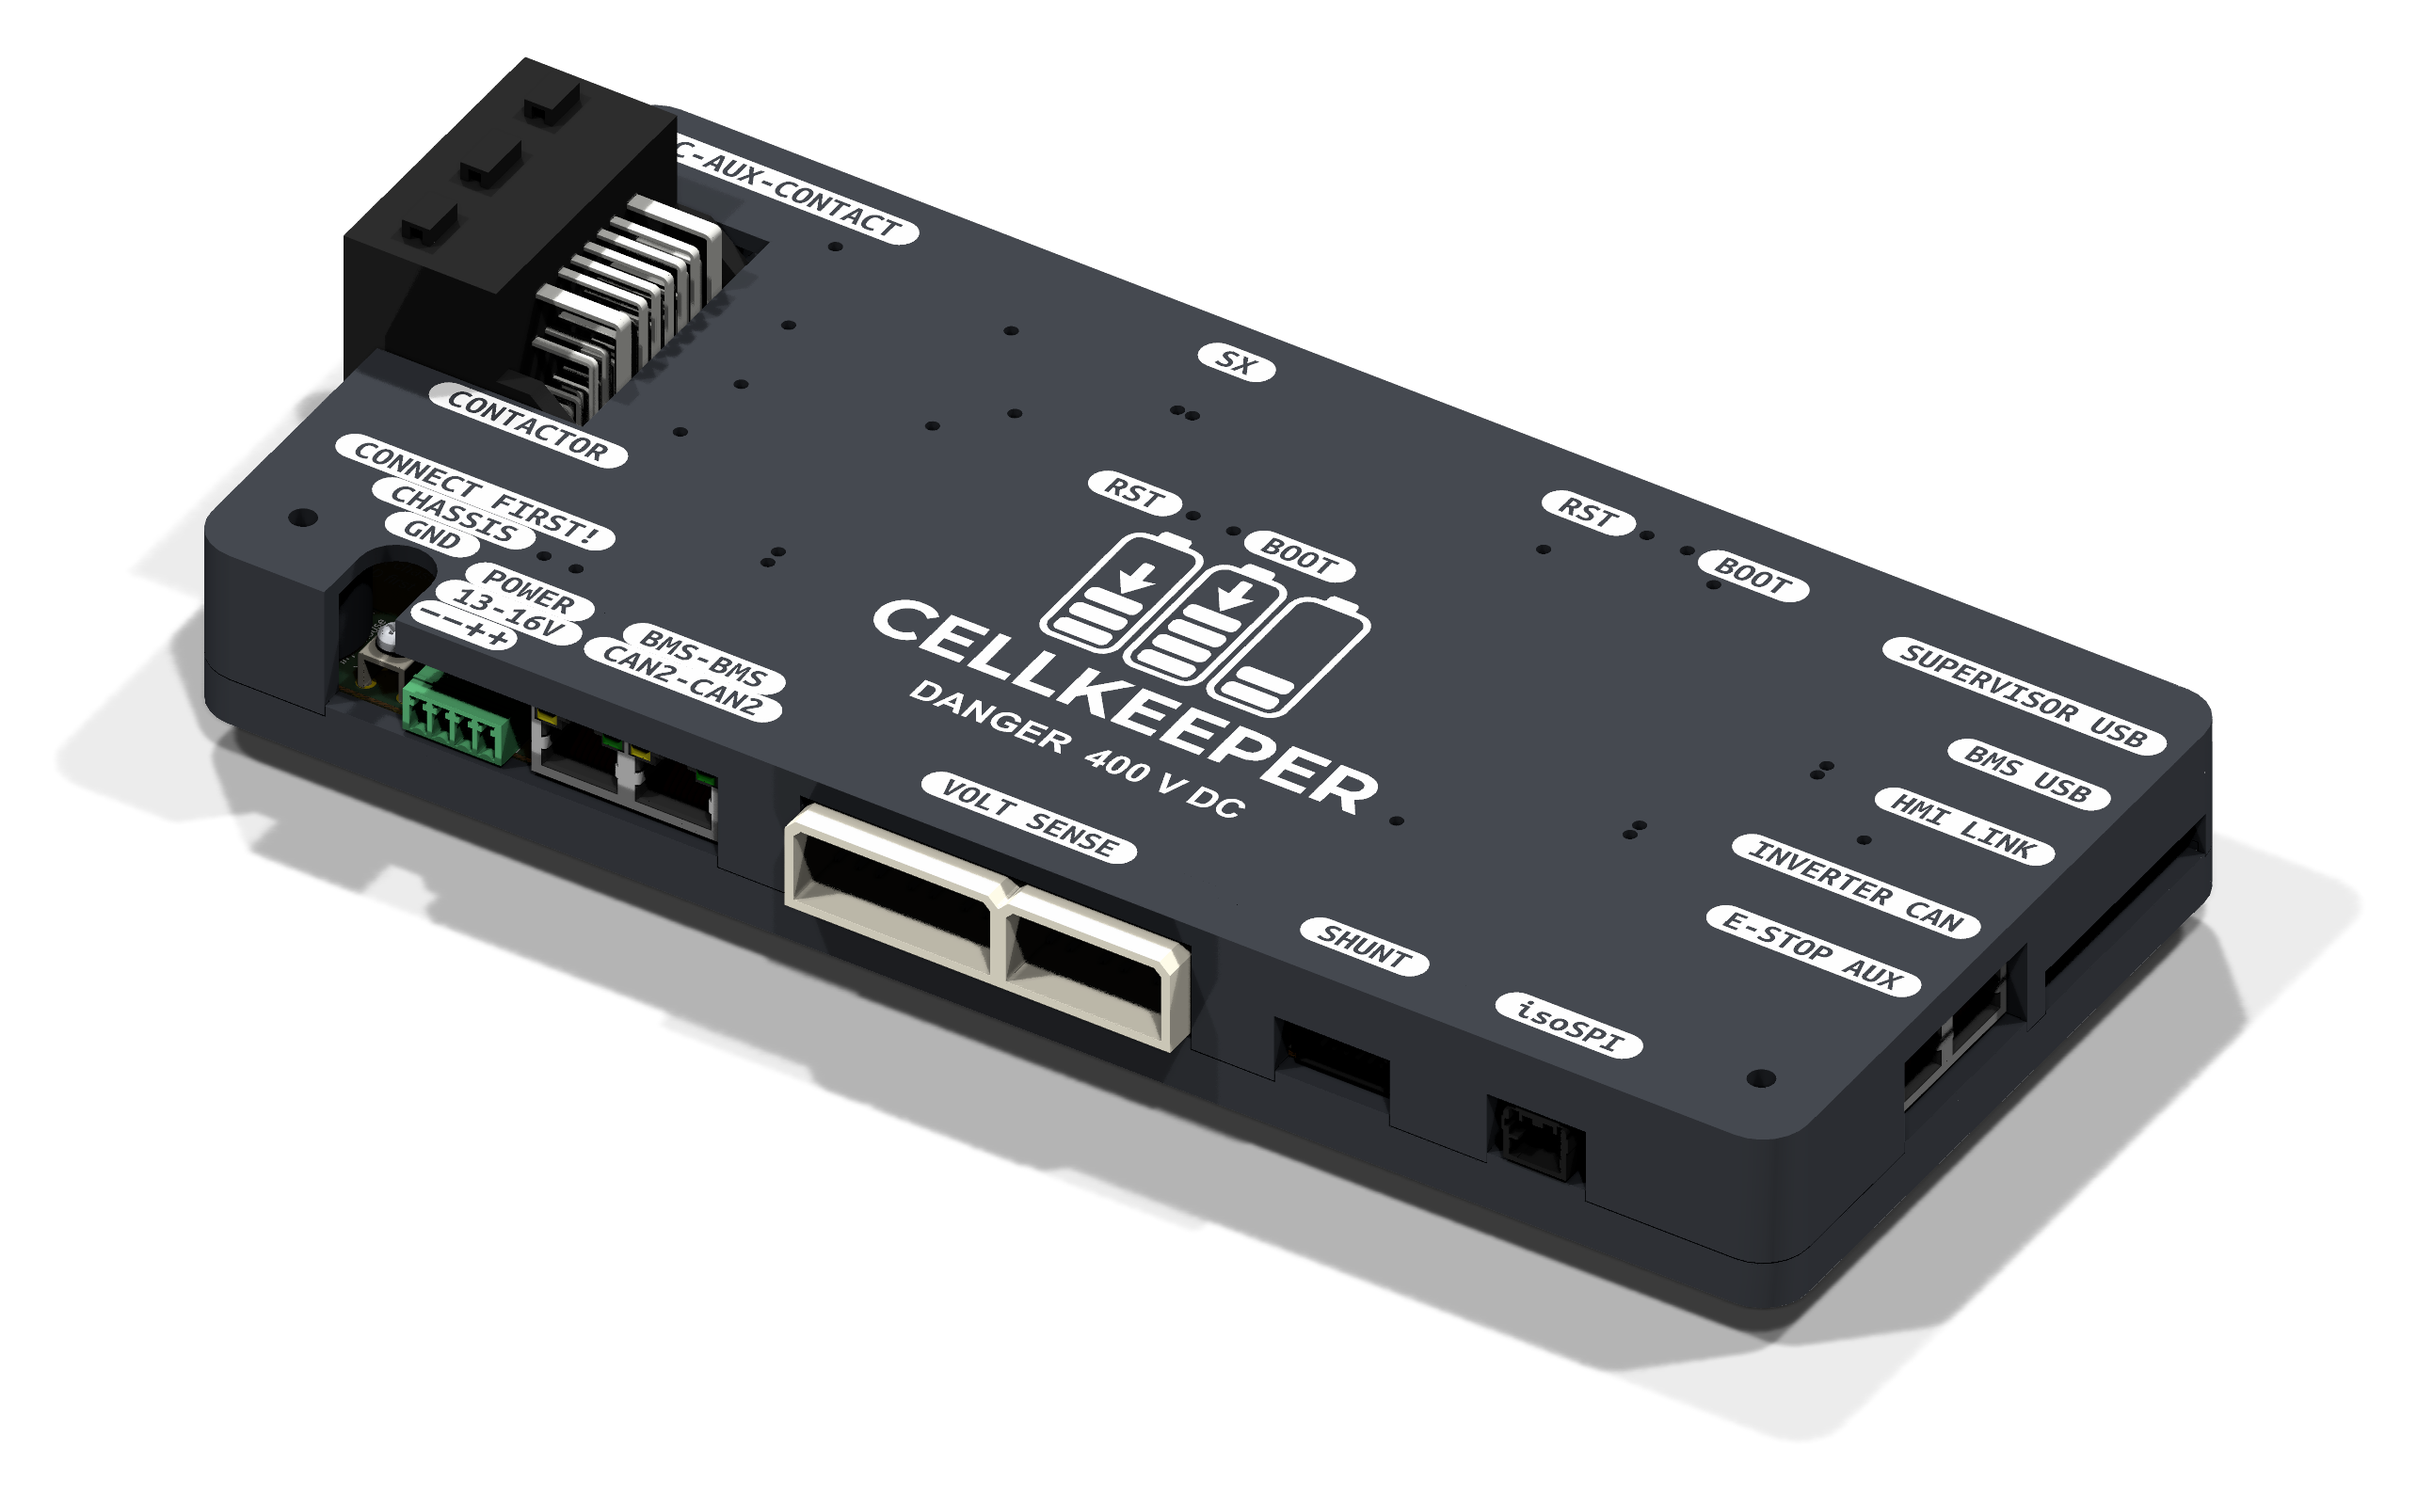
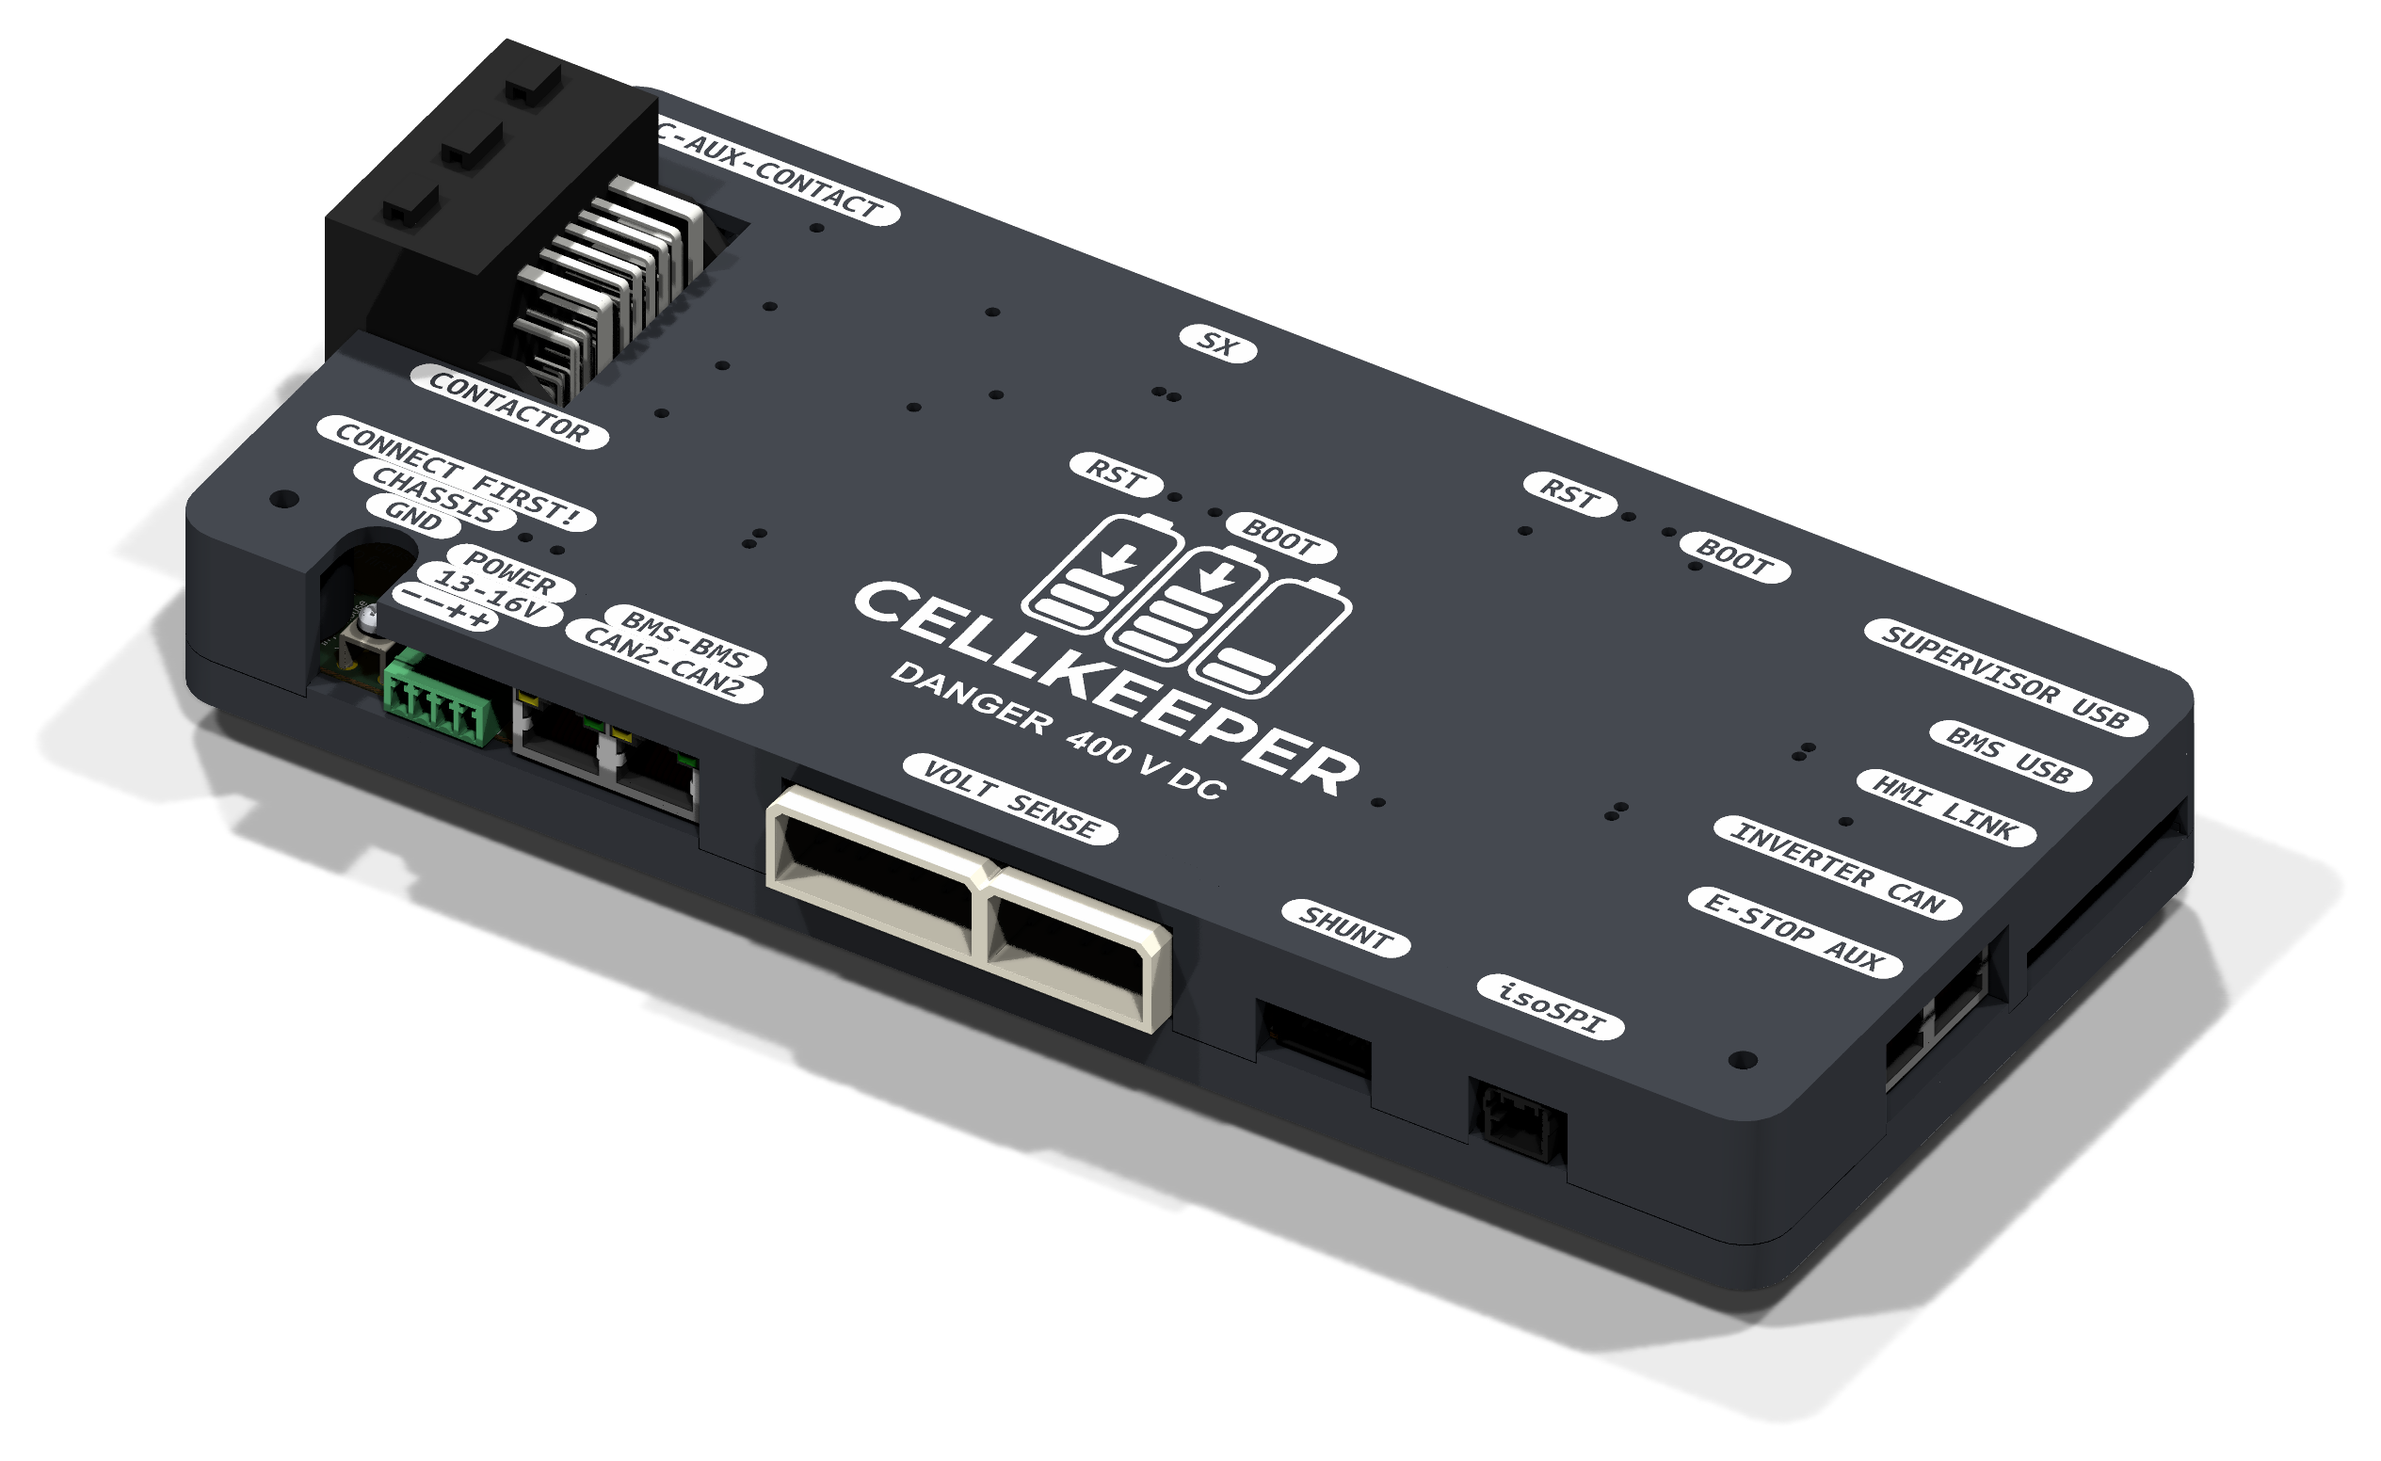
README: drop Getting Started; add update notes and image script
- docs/readme-update.md: what changed in the README, how to refresh its
  images, and a review of the README against the Rev 1.1 schematic and
  board with suggested wording and open questions
- python_scripts/render_readme_images.py renders the bare-board top view
  (ENC1 case footprint removed) and the right-front enclosure view
- images re-rendered with the script

diff --git a/python_scripts/render_readme_images.py b/python_scripts/render_readme_images.py
@@ -1,0 +1,81 @@
+"""Render the README images with kicad-cli:
+
+    graphics/CellKeeper_top.png        bare board, top-down (the ENC1 case footprint left out)
+    graphics/CellKeeper_enclosure.png  board in its case, from the right front
+
+    python python_scripts/render_readme_images.py
+
+Run enclosure/cellkeeper_case.py first if the case changed, so ENC1's models are current. Close
+nothing in KiCad: the board is only read. Set KICAD_CLI if kicad-cli is not at the KiCad 10 path.
+"""
+
+from __future__ import annotations
+
+import os
+import subprocess
+import tempfile
+from pathlib import Path
+
+from PIL import Image
+
+PROJECT = Path(__file__).resolve().parents[1]
+BOARD = PROJECT / "CellKeeper" / "CellKeeper.kicad_pcb"
+GRAPHICS = PROJECT / "graphics"
+KICAD_CLI = Path(os.environ.get("KICAD_CLI", r"C:\Program Files\KiCad\10.0\bin\kicad-cli.exe"))
+ENCLOSURE_FP = '(footprint "CellKeeper_Local:CellKeeper_Enclosure"'
+
+VIEWS = {
+    # name: (board file, kicad-cli render arguments)
+    "CellKeeper_top.png": ("bare", ["--side", "top", "--width", "4000", "--height", "2200"]),
+    "CellKeeper_enclosure.png": ("full", ["--side", "top", "--rotate", "-52,0,-32", "--width", "3200", "--height", "2000"]),
+}
+
+
+def without_enclosure(text: str) -> str:
+    """The board file text with the ENC1 footprint block removed."""
+    i = text.index(ENCLOSURE_FP)
+    start = text.rfind("\n", 0, i) + 1
+    depth, j = 0, i
+    while True:
+        c = text[j]
+        if c == "(":
+            depth += 1
+        elif c == ")":
+            depth -= 1
+            if depth == 0:
+                break
+        elif c == '"':
+            j = text.index('"', j + 1)
+        j += 1
+    return text[:start] + text[j + 1:]
+
+
+def render(board: Path, args: list[str], out: Path) -> None:
+    """Render on a transparent background, then crop to the board and flatten onto white."""
+    raw = out.with_suffix(".raw.png")
+    subprocess.run([str(KICAD_CLI), "pcb", "render", "-o", str(raw), "--background", "transparent",
+                    "--quality", "high", "--define-var", f"KIPRJMOD={BOARD.parent}", *args, str(board)],
+                   check=True)
+    im = Image.open(raw).convert("RGBA")
+    raw.unlink()
+    left, top, right, bottom = im.getchannel("A").point(lambda a: 255 if a > 8 else 0).getbbox()
+    pad = 40
+    im = im.crop((max(left - pad, 0), max(top - pad, 0), min(right + pad, im.width), min(bottom + pad, im.height)))
+    flat = Image.new("RGBA", im.size, (255, 255, 255, 255))
+    flat.alpha_composite(im)
+    flat.convert("RGB").save(out)
+    print(f"wrote {out.relative_to(PROJECT)} {flat.size[0]}x{flat.size[1]}")
+
+
+def main() -> None:
+    text = BOARD.read_text(encoding="utf-8")
+    with tempfile.TemporaryDirectory() as tmp:
+        bare = Path(tmp) / "bare.kicad_pcb"
+        bare.write_text(without_enclosure(text), encoding="utf-8", newline="")
+        boards = {"bare": bare, "full": BOARD}
+        for name, (which, args) in VIEWS.items():
+            render(boards[which], args, GRAPHICS / name)
+
+
+if __name__ == "__main__":
+    main()

diff --git a/docs/readme-update.md b/docs/readme-update.md
@@ -1,0 +1,103 @@
+# README update notes
+
+How the README is put together, how to refresh its images, and a review of the README against
+the Rev 1.1 schematic and board (2026-10-20) with suggested changes.
+
+## What was changed on 2026-10-20
+
+- Title and safety note now say **v1.1** (were "Rev1").
+- Top image replaced: `graphics/CellKeeper_top.png` is the current bare v1.1 board, top-down.
+  The old panelised render `graphics/CellKeeperPCB.png` is no longer used by the README (it still
+  shows the precharge and isoSPI boards attached; delete it if nothing else needs it).
+- New **Enclosure** section with `graphics/CellKeeper_enclosure.png` (case and board from the
+  right front), and an `enclosure/` row in Repository Contents.
+- **Getting Started** section removed (KiCad install/open steps and the KiKit panelising note).
+
+## Refreshing the README images
+
+```
+python enclosure/cellkeeper_case.py          # only if the case changed: updates ENC1's 3D models
+python python_scripts/render_readme_images.py
+```
+
+`render_readme_images.py` drives `kicad-cli pcb render` and writes both images:
+
+| Image | View | How |
+|-------|------|-----|
+| `graphics/CellKeeper_top.png` | bare board, top-down | renders a temporary copy of the board with the ENC1 enclosure footprint removed |
+| `graphics/CellKeeper_enclosure.png` | board in its case, right front | renders the real board with `--rotate -52,0,-32` |
+
+Both are rendered on a transparent background, cropped to the board with a 40 px margin and
+flattened onto white. The board file is only read, so KiCad can stay open (it renders the last
+saved state). `KIPRJMOD` is passed to kicad-cli so the temporary copy still finds the project's
+3D models. Set `KICAD_CLI` if kicad-cli isn't at `C:\Program Files\KiCad\10.0\bin\kicad-cli.exe`.
+
+Notes:
+
+- The ENC1 footprint (board-only, at 0,0) carries the case models from `enclosure/output/kicad/`;
+  without the removal step every top-down render shows the closed case instead of the board.
+- `kicad-cli pcb render --pan` moves the camera in its own units, which made zoomed close-ups go
+  blank; crop a full render instead.
+- The KiCad renders include the soft floor shadow (semi-transparent), which reads fine on white.
+
+## README vs the Rev 1.1 design
+
+Sources: `CellKeeper/CellKeeper.kicad_sch` (notes, labels), `CellKeeper/CellKeeper.kicad_pcb`
+(pad nets, silkscreen), `CellKeeper/production/CellKeeper_REV1.1_bom.csv`.
+U14 is the main BMS MCU, U20 the supervisor (silkscreen "BMS" and "Supervisor").
+
+### Intro
+
+README: "a replacement BMS controller for battery packs using the isoSPI protocol."
+
+The board is laid out as a drop-in for the Tesla penthouse controller: OEM connectors for the
+vehicle harness (J6, JST S44B-RAD1AK), HV sense (J17, TE 173864-1), shunt (J14, Hirose ZE05H) and
+isoSPI to the BMBs (J20, Molex 34912), and H3/H4 sit where the original controller's mounting
+brackets screw down ("H3, H4 fit mount in penthouse"). Suggest saying so, e.g. "a drop-in
+replacement for the Tesla battery's penthouse controller (HVC/HVP), using the pack's original
+connectors and mounting points". Confirm the exact pack/vehicle wording.
+
+### Overview bullets
+
+| README says | Rev 1.1 has | Suggested |
+|-------------|-------------|-----------|
+| MCU: RP2354B (dual Cortex-M33 @ 150 MHz) | **two** RP2354B: main BMS (U14) and supervisor (U20), each with its own crystal, 3.3 V LDO, USB-C and RST/BOOT buttons; UART link between them (MAIN-SUP / SUP-MAIN); the supervisor also sees the isoSPI receive line and the E-stop input | "Two RP2354B: main BMS controller plus an independent supervisor" |
+| Current sensing: TI INA228 (20-bit, shunt-based) | INA228 (U17) on a **galvanically isolated** domain: ISO1540 I2C isolator (U16) and an isolated 5 V DC-DC (U15, F0505S-1WR3; footprint also takes the 6 kV H0505S-1WR2). Also reads the shunt NTC. Schematic note: in Tesla packs the shunt is at the pack midpoint and always live | add "isolated" and "shunt temperature" |
+| Pack voltage: 6-channel monitoring via precision dividers | 6 HV sense points (BAT+, BAT-, LINK+, LINK-, FC/OUT+, FC/OUT-) through 501:1 dividers (400 V reads 0.798 V) into **two ADS1115** (U18, U19), read differentially: battery, link and output voltage and the voltage across each contactor | "6 HV sense points into two ADS1115 ADCs; measures pack, link and output voltage and each contactor" |
+| BMB communication: isoSPI master with galvanic isolation (Manchester encoding via PIO) | discrete isoSPI: SP3485 driver (U21), AM26LV32 receiver (U22), HM2113 transformer (TR1); BMB-side centre tap floating for ESD | add the part numbers / "transformer-isolated" |
+| CAN bus: 500 kbps, hardware transceiver | **two** CAN interfaces, both ISO1050: inverter CAN (U5) is isolated with its own DC-DC (U4) and shares RJ45 J4 with the E-stop/aux lines (default jumpers suit Deye/BYD pinout; Foxess swaps CANH/L); inter-BMS CAN2 (U10) runs from board 5 V and GND (not isolated, silkscreen "NON ISOLATED") on dual pass-through RJ45 J5. The bit rate is firmware, not hardware | "Two CAN buses: isolated inverter CAN and inter-BMS CAN" |
+| Contactor control: 4-channel PWM outputs with inrush limiting | 4 low-side channels (FC+, FC-, Link+, Link-): BSC0805LS MOSFETs (Q1-Q4) driven by two UCC27524 gate drivers (U1, U11) with a shared enable `CTR_EN` (silkscreen "Supervisor Enable"; verify what drives it); FC negative also controls the precharge bypass; contactor supply sensed on an ADC (VContactor Sense). "Inrush limiting" isn't visible in hardware: verify whether that means firmware PWM economising or the precharge | drop or reword "inrush limiting"; mention the enable and the precharge role |
+| Input: 12 V nominal; up to 400 V DC pack voltage | J1 has separate **logic** and **contactor** supply inputs (GND, GND, CTR, LOGIC), both sensed; TPS5430 5 V 3 A buck (36 V max, intended for 10-16 V); silkscreen says **12-16 V** (the printed case lid says 13-16 V); chassis ground terminal J2 ("IMPORTANT connect chassis GND first") | "12-16 V logic and contactor supplies (separate inputs)"; settle 12-16 V vs 13-16 V |
+
+### Missing from the README
+
+- **USB-C x3**: supervisor, BMS, and "HMI link". The HMI link is not for a computer: it powers an
+  external ESP32 display/HMI (typically an ESP32-P4 LCD board, 5 V 1 A) and carries the HMI serial.
+- **Inputs/outputs**: E-stop input (optocoupler; external NC switch, or jumper JP37 "E-STOP
+  DISABLE"), extra input (opto, 3-5 V), extra outputs on J4, FC contactor aux-contact inputs
+  (J7, opto) for weld detection, SX serial (J3: GND, RX, TX, 3V3; "SX 2012-2021 serial interface").
+- **PCS signals** (PCS Enable/Charge/DC-DC, PCS IPC CAN) on experimental jumpers JP30-JP35.
+- **Board identification**: revision strap on GPIO44-46.
+- **Indicators**: 21 status LEDs.
+- **Mounting**: H1/H2/H7/H8 (3.7 mm) for the board, H3/H4 (5 mm) for the penthouse brackets.
+- **Enclosure**: now covered by its own section.
+
+### Repository Contents
+
+- `docs/` (design plans, these notes) isn't listed.
+- `CellKeeper/production/` holds both REV1 and REV1.1 outputs; say which is current.
+- `python_scripts/` now includes `render_readme_images.py` (README images) and
+  `recolor_vendor_step_models.py` (3D model colours).
+
+### Safety
+
+Now says v1.1. Several schematic notes still say "Not tested as of now" and "Not used for standard
+setup" (PCS/experimental parts); keep the "untested" wording until those are verified.
+
+## Checklist for the next README update
+
+1. Re-render the images (above) after board or case changes, and check them before committing.
+2. Re-check the Overview against the BOM (`production/*_bom.csv`) for part changes.
+3. Keep the version in the title, the safety note and the image alt text in step.
+4. Confirm the open questions above: what drives `CTR_EN`, "inrush limiting", 12-16 V vs 13-16 V,
+   the Tesla pack/vehicle wording.

diff --git a/README.md b/README.md
@@ -39,16 +39,6 @@ carries the logo and connector labels, which can be printed as a contrasting-col
 clear light pipes over the LEDs. Ready-to-print STEP and STL files are in `enclosure/output/print/`.
 The board shows the case in KiCad's 3D viewer through the `ENC1` footprint.
 
-## Getting Started
-
-1. Install [KiCad 10.0+](https://www.kicad.org/download/)
-2. Clone this repository
-3. Open the board's `.kicad_pro` in `CellKeeper/`, `isoSPI-Hat/` or `Precharge/`. Each project's
-   `sym-lib-table` / `fp-lib-table` load the shared libraries from `../lib`.
-
-To order the boards on one panel, panelise the finished boards at order time (e.g. with KiKit)
-rather than merging the projects again.
-
 ## Safety
 
 ⚠ This board interfaces with 400 V battery packs that can deliver **lethal** current. Only qualified personnel should work on high-voltage systems. This is a v1.1 development design — untested, no warranty, use at your own risk.
